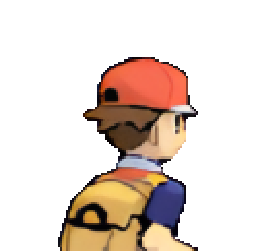
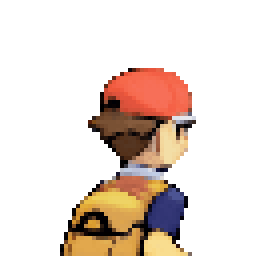
Feat: Add catch animation

Changed region(s): [[0.2188, 0.2231, 0.7812, 1.0], [0.6562, 0.3625, 0.6875, 0.3904], [0.4062, 0.7809, 0.4375, 0.8088]]

diff --git a/src/pages/HuntingPage.tsx b/src/pages/HuntingPage.tsx
@@ -44,6 +44,7 @@ export default function HuntingPage({
     null,
   );
   const [selectedPokeball, setSelectedPokeball] = useState(0);
+  const [tryToCatch, setTryToCatch] = useState(false);
   const setRandomPokemon = () => {
     setFoundPokemon(getRandomPokemon(pokemonsInHabitat));
   };
@@ -105,6 +106,14 @@ export default function HuntingPage({
     return { opacity: index === selectedPokeball ? 1 : 0.3 };
   };
 
+  const catchPokemon = () => {
+    setTryToCatch(true);
+    const interval = setInterval(() => {
+      setTryToCatch(false);
+      clearInterval(interval);
+    }, 1000);
+  };
+
   return (
     <SafeAreaView
       className="flex-1 items-center"
@@ -132,13 +141,14 @@ export default function HuntingPage({
 
         {foundPokemon && (
           <Animated.View
-            className="h-full w-full"
+            className="h-full w-full overflow-hidden"
             style={[animatedFoundOpacityStyle]}
           >
             <PokemonPicture
               sprite={foundPokemon.sprite3d}
               size={size}
               bg={habitat.sprite.bg}
+              captureTry={tryToCatch}
             />
           </Animated.View>
         )}
@@ -186,7 +196,10 @@ export default function HuntingPage({
         </View>
         <View className="flex-1 w-full items-center justify-end pb-4 space-y-4">
           <View className="w-full h-12 items-center">
-            <PrimaryButton text="Catch" />
+            <PrimaryButton
+              text="Catch"
+              onPress={() => (foundPokemon ? catchPokemon() : null)}
+            />
           </View>
           <View className="w-full h-12 items-center">
             <PrimaryButton

diff --git a/src/components/HuntingPage/FoundPokemonComponent.tsx b/src/components/HuntingPage/FoundPokemonComponent.tsx
@@ -15,6 +15,7 @@ type Props = {
   };
   size: number;
   bg: string;
+  captureTry: boolean;
 };
 export default function PokemonPicture(props: Props) {
   const offsetPokemon = useSharedValue(0);
@@ -45,7 +46,7 @@ export default function PokemonPicture(props: Props) {
     );
     offsetTrainer.value = withDelay(
       150,
-      withSpring(props.size / 2 - 16, { mass: 1, damping: 50 }),
+      withSpring(props.size / 2 - 32, { mass: 1, damping: 50 }),
     );
     offsetBg.value = withDelay(
       150,
@@ -94,7 +95,11 @@ export default function PokemonPicture(props: Props) {
         className="h-2/3 w-2/3 absolute -bottom-[2] right-0"
       >
         <Image
-          source={require('../../../assets/images/trainer-back.png')}
+          source={
+            props.captureTry
+              ? require('../../../assets/images/trainer-throwing.gif')
+              : require('../../../assets/images/trainer-back.png')
+          }
           resizeMode="contain"
           className="h-full w-full"
         />
